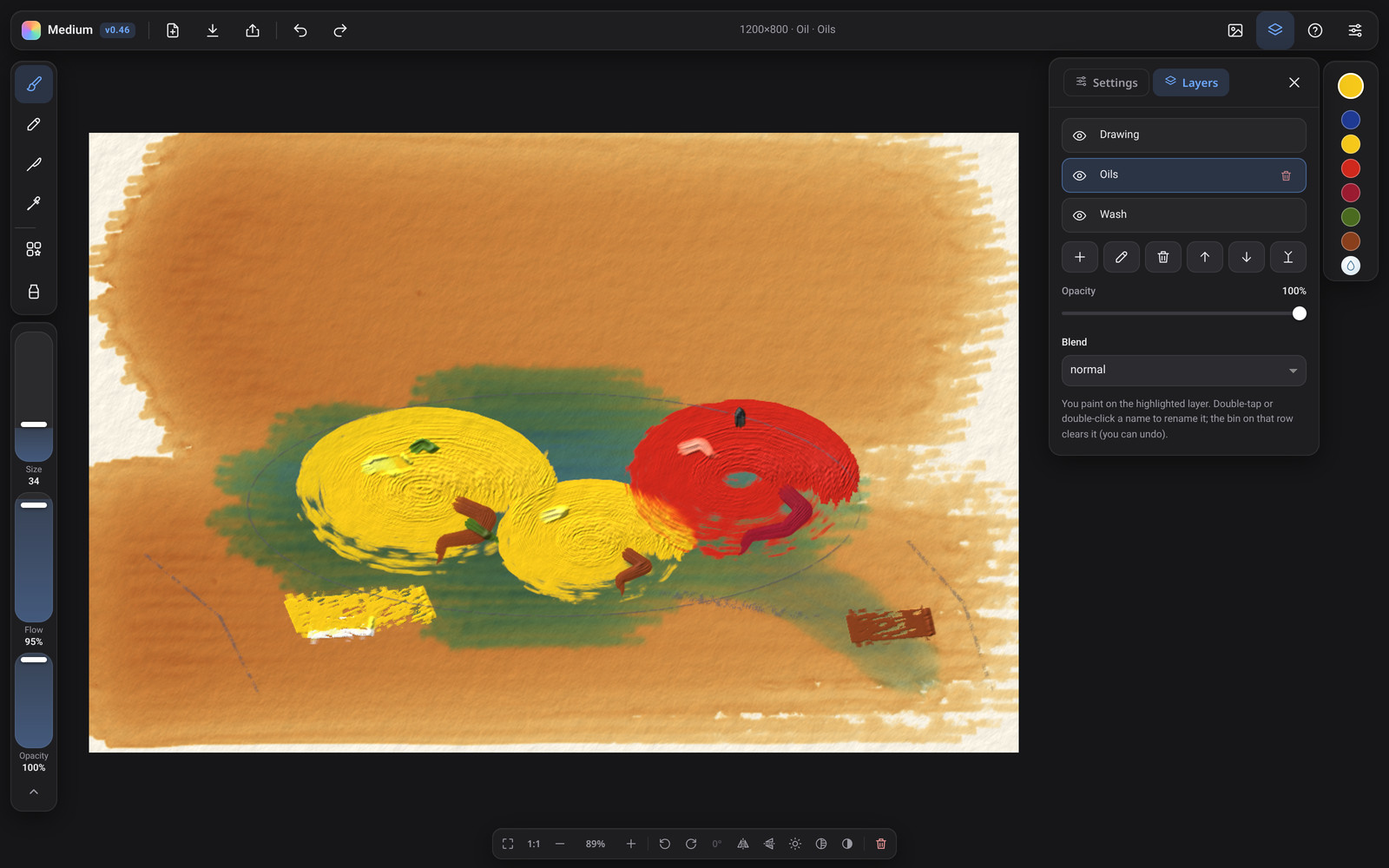
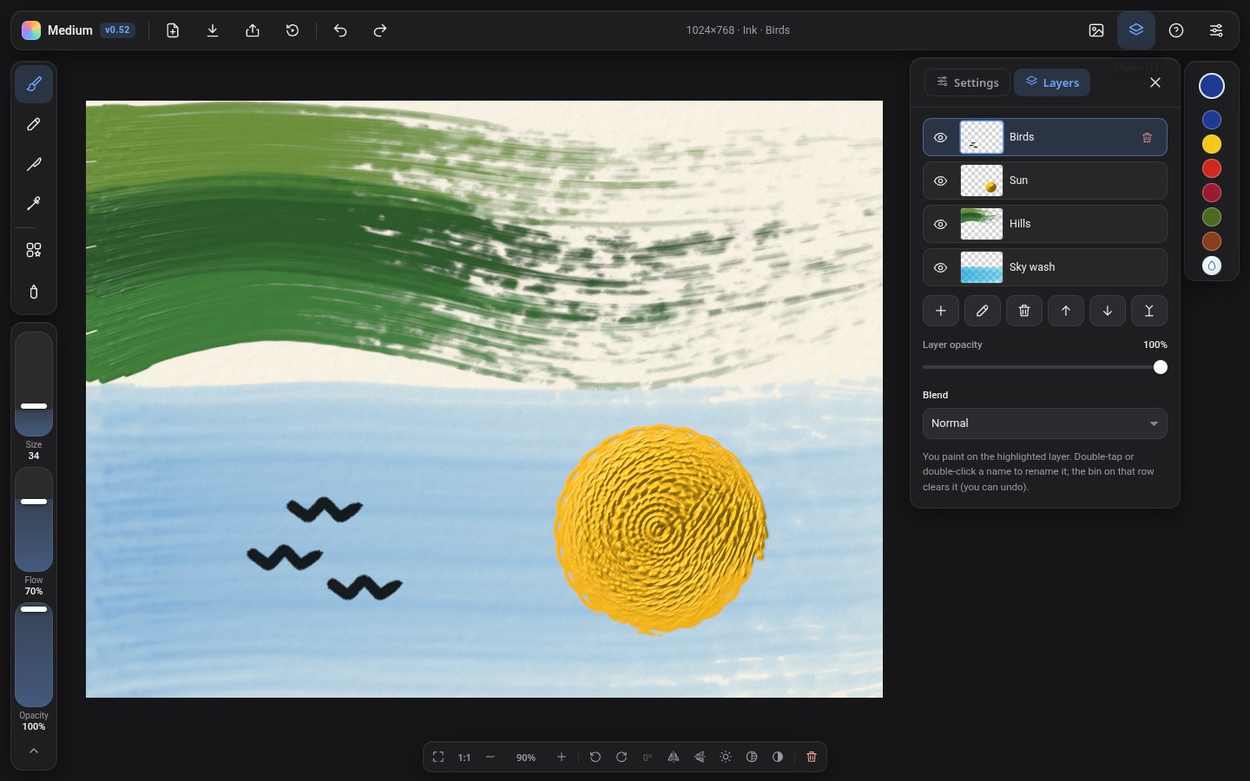
v0.52: layer thumbnail previews in Layers tab (live-updating, desktop + phone); test-thumbs.js

diff --git a/index.html b/index.html
@@ -1,8 +1,8 @@
 <!DOCTYPE html>
 <html lang="en"><head><meta charset="utf-8">
-<title>Medium — paint v0.51</title>
+<title>Medium — paint v0.52</title>
 <meta name="viewport" content="width=device-width,initial-scale=1,maximum-scale=1,user-scalable=no,viewport-fit=cover">
-<meta name="app-version" content="medium-v0.51">
+<meta name="app-version" content="medium-v0.52">
 <meta name="theme-color" content="#161618">
 <link rel="manifest" href="manifest.webmanifest">
 <link rel="icon" type="image/png" sizes="32x32" href="icons/favicon-32.png">
@@ -91,10 +91,10 @@ select{width:100%;min-height:36px;padding:6px 10px;border:0;border-radius:10px;b
 input[type=color]{width:34px;height:26px;border:0;border-radius:8px;background:none;padding:0;cursor:pointer}
 .pick{display:flex;align-items:center;gap:10px;margin-top:10px;color:var(--mute);font-size:12.5px}
 #layers{display:flex;flex-direction:column;gap:4px;margin-bottom:10px}
-.ly{display:flex;align-items:center;gap:8px;min-height:40px;padding:4px 10px 4px 4px;border-radius:10px;background:rgba(255,255,255,.04);box-shadow:inset 0 0 0 1px var(--line);cursor:pointer;font-size:12.5px}
+.ly{display:flex;align-items:center;gap:8px;min-height:44px;padding:4px 10px 4px 4px;border-radius:10px;background:rgba(255,255,255,.04);box-shadow:inset 0 0 0 1px var(--line);cursor:pointer;font-size:12.5px}
 .ly.on{background:var(--accS);box-shadow:inset 0 0 0 1px rgba(110,168,255,.45)}
 .ly .eye{width:32px;height:32px;display:flex;align-items:center;justify-content:center;border-radius:8px;color:var(--ink)}.ly .eye.off{color:var(--dim)}.ly .eye svg{width:17px;height:17px}
-.ly .nm{flex:1;overflow:hidden;white-space:nowrap;text-overflow:ellipsis}.ly .eye{border:0;background:none;padding:0;cursor:pointer;flex:none}.ly .eye:focus-visible,.ly:focus-visible{outline:2px solid var(--acc,#6ea8ff);outline-offset:1px}.ly:focus{outline:none}.ly .nmi{flex:1;min-width:0;height:30px;padding:0 8px;border:0;border-radius:7px;background:rgba(0,0,0,.35);color:var(--ink);font:inherit;box-shadow:inset 0 0 0 1px rgba(110,168,255,.7);outline:none}#layers{display:flex;flex-direction:column;gap:6px}.ly .bm{color:var(--mute);font-size:10.5px}
+.ly .nm{flex:1;overflow:hidden;white-space:nowrap;text-overflow:ellipsis}.ly .lthb{flex:none;width:48px;height:36px;display:flex;align-items:center;justify-content:center;border-radius:6px}.ly .lth{display:block;max-width:48px;max-height:36px;border-radius:3px;box-shadow:0 0 0 1px var(--line);background-color:#fff;background-image:linear-gradient(45deg,#d6d6d6 25%,transparent 25%,transparent 75%,#d6d6d6 75%),linear-gradient(45deg,#d6d6d6 25%,transparent 25%,transparent 75%,#d6d6d6 75%);background-size:8px 8px;background-position:0 0,4px 4px}.ly.on .lth{box-shadow:0 0 0 1.5px rgba(110,168,255,.9)}.ly.hid .lthb{opacity:.4}.ly .eye{border:0;background:none;padding:0;cursor:pointer;flex:none}.ly .eye:focus-visible,.ly:focus-visible{outline:2px solid var(--acc,#6ea8ff);outline-offset:1px}.ly:focus{outline:none}.ly .nmi{flex:1;min-width:0;height:30px;padding:0 8px;border:0;border-radius:7px;background:rgba(0,0,0,.35);color:var(--ink);font:inherit;box-shadow:inset 0 0 0 1px rgba(110,168,255,.7);outline:none}#layers{display:flex;flex-direction:column;gap:6px}.ly .bm{color:var(--mute);font-size:10.5px}
 .hint{font-size:11.5px;color:var(--mute);line-height:1.55}
 #viewc{position:fixed;left:50%;bottom:10px;transform:translateX(-50%);z-index:9;display:flex;align-items:center;gap:2px;background:var(--glass);border:1px solid var(--line);border-radius:11px;padding:3px;box-shadow:var(--sh)}
 #viewc button{background:none;border:0;color:var(--mute);border-radius:8px;height:28px;min-width:28px;padding:0 6px;display:grid;place-items:center;cursor:pointer;font:600 11px/1 system-ui;font-variant-numeric:tabular-nums}
@@ -407,7 +407,7 @@ body.rp.vexp #c{object-fit:contain}
 </div>
 <div id="viewc" role="toolbar" aria-label="Canvas view"><button id="vFit" data-ic="fit" data-tip="Fit to screen (Ctrl+0)" aria-label="Fit to screen"></button><button id="v100" data-tip="Zoom to 100% (Ctrl+1)" aria-label="Zoom to 100%">1:1</button><button id="vOut" data-ic="minus" data-tip="Zoom out (Ctrl+−)" aria-label="Zoom out"></button><button id="zoomv" data-tip="Zoom: click for 100% (Ctrl+1), again to fit (Ctrl+0)" aria-label="Zoom level">100%</button><button id="vIn" data-ic="plus" data-tip="Zoom in (Ctrl++)" aria-label="Zoom in"></button><span class="vsep"></span><button id="vRL" data-ic="rotl" data-tip="Rotate view left 15° (Shift+R)" aria-label="Rotate view left"></button><button id="vRR" data-ic="rotr" data-tip="Rotate view right 15° (R)" aria-label="Rotate view right"></button><button id="rotv" disabled data-tip="Straighten the view (shows current angle)" aria-label="Reset rotation">0°</button><button id="vFH" data-ic="fliph" data-tip="Mirror view left–right (H)" aria-label="Flip view horizontally" aria-pressed="false"></button><button id="vFV" data-ic="flipv" data-tip="Mirror view upside down (Shift+H)" aria-label="Flip view vertically" aria-pressed="false"></button><button id="vSun" data-ic="sun" data-tip="Light &amp; relief (Shift+L)" aria-label="Light and relief" aria-haspopup="dialog" aria-expanded="false" aria-controls="lp"></button><button id="vGrey" data-ic="grey" data-tip="Value check: greyscale view (Shift+V)" aria-label="Greyscale value check" aria-pressed="false"></button><button id="vFlat" data-ic="flat" data-tip="Flat view: hide lighting to judge colour (Shift+F)" aria-label="Flat view" aria-pressed="false"></button><span class="vsep"></span><button id="vClr" data-ic="trash" data-tip="Clear layer… (Shift+Delete)" aria-label="Clear layer" aria-haspopup="dialog"></button></div>
 <!-- top-left: brand + document actions -->
-<div id="barL" class="fl"><div class="brand"><span class="logo"></span>Medium<span class="ver" id="ver">v0.51</span><span id="recDot" class="recDot" role="img" aria-label="Recording strokes for replay" title="Recording strokes for replay (Settings › Replay &amp; recording)" hidden></span></div>
+<div id="barL" class="fl"><div class="brand"><span class="logo"></span>Medium<span class="ver" id="ver">v0.52</span><span id="recDot" class="recDot" role="img" aria-label="Recording strokes for replay" title="Recording strokes for replay (Settings › Replay &amp; recording)" hidden></span></div>
  <span class="sep dk"></span><button class="ib dk" id="tNew" data-tip="New canvas" aria-label="New canvas" data-ic="file"></button><button class="ib dk" id="tExp" data-tip="Export… (Ctrl+Shift+E)" aria-label="Export image" aria-haspopup="dialog" data-ic="download"></button><button class="ib dk" id="tShare" data-tip="Share… (Ctrl+Shift+S)" aria-label="Share painting" aria-haspopup="dialog" data-ic="share"></button><button class="ib dk" id="tRep" data-tip="Replay &amp; time-lapse video (Y)" aria-label="Replay painting" aria-haspopup="dialog" aria-expanded="false" data-ic="replay"></button><span class="sep dk"></span><button class="ib dk" id="bUndo" data-tip="Undo (Ctrl+Z)" aria-label="Undo" data-ic="undo"></button><button class="ib dk" id="bRedo" data-tip="Redo (Ctrl+Shift+Z)" aria-label="Redo" data-ic="redo"></button><span class="sp dk"></span><span id="docT" class="dk"></span><span class="sp dk"></span><button class="ib dk" id="tRef" data-tip="Reference image" aria-label="Reference image" data-ic="image"></button><button class="ib dk" id="tLay" data-tip="Layers (L)" aria-label="Layers" aria-expanded="false" aria-controls="panel" data-ic="layers"></button><button class="ib dk" id="tHelp" data-tip="Help &amp; shortcuts (?)" aria-label="Help and keyboard shortcuts" aria-haspopup="dialog" data-ic="help"></button><button class="ib dk" id="dSet" data-tip="Settings" aria-label="Settings" data-ic="sliders"></button></div>
 <!-- top-right: tools -->
 <div id="barR" class="fl"><button class="ib" id="dBrush" data-tip="Brush (B)" aria-label="Brush" data-ic="brush"></button><button class="ib" id="dPencil" data-tip="Pencil (G)" aria-label="Pencil" data-ic="pencil"></button><button class="ib" id="dKnife" data-tip="Palette knife (K)" aria-label="Palette knife" data-ic="knife"></button><button class="ib" id="dPick" data-tip="Eyedropper (I or Alt+click)" aria-label="Eyedropper" data-ic="pipette"></button>
@@ -603,6 +603,7 @@ body.rp.vexp #c{object-fit:contain}
  <section class="hSec" id="hsLayers"><h3><span data-ic="layers"></span>Layers</h3><ul>
   <li>Open the <b>Layers</b> tab with the layers button (stacked squares) at the top, or press <kbd>L</kbd>. It sits beside Settings in the same panel, so you can switch between the two tabs. You paint on the highlighted layer.</li>
   <li><b>+</b> adds a layer; the eye hides or shows one.</li>
+  <li><b>Thumbnails:</b> each layer shows a small preview of just that layer, on a checkerboard where it is see-through. It updates after each stroke, undo, clear or reorder, and while wet paint dries (only while the Layers tab is open). Tap a thumbnail or name to paint on that layer.</li>
   <li><b>Rename:</b> the pencil button, a double-click or double-tap on the name<span class="dk">, or F2</span>.</li>
   <li>The arrows move a layer up or down; <b>Merge down</b> joins it with the layer below.</li>
   <li><b>Layer opacity</b> and <b>Blend</b> in the Layers tab apply to the whole current layer. 18 blend modes, grouped like Photoshop: Normal · Darken, Multiply, Colour burn, Linear burn · Lighten, Screen, Colour dodge, Linear dodge (add) · Overlay, Soft light, Hard light · Difference, Exclusion · Hue, Saturation, Colour, Luminosity. New paintings blend like Photoshop (on display colours); paintings saved before v0.51 keep their old look for normal, multiply, screen and overlay. Blend only changes colour: the paint's relief and gloss stay as they are.</li>
@@ -1102,6 +1103,11 @@ const vs=sh(gl.VERTEX_SHADER,VS);
 function prog(src){const p=gl.createProgram();gl.attachShader(p,vs);{let fs=HEAD+src;if(NOLIN)fs=fs.replace('\n','\n#define NOLIN 1\n');if(MEDIUMP)fs=fs.replace('precision highp float;','precision mediump float;');gl.attachShader(p,sh(gl.FRAGMENT_SHADER,fs));}gl.bindAttribLocation(p,0,'p');gl.linkProgram(p);
  if(!gl.getProgramParameter(p,gl.LINK_STATUS))throw new Error(gl.getProgramInfoLog(p));const u={};const n=gl.getProgramParameter(p,gl.ACTIVE_UNIFORMS);
  for(let i=0;i<n;i++){const nm=gl.getActiveUniform(p,i).name.replace('[0]','');u[nm]=gl.getUniformLocation(p,nm);}return{p,u};}
+/* v0.52 layer thumbnails: box-filter a layer (premultiplied colour + height/gloss) down to thumbnail size; o1.x also gets the paper relief like hdown */
+FS.thumbDown=`uniform sampler2D uC,uA,uP;uniform float uPR,uTN;uniform vec2 uFP;layout(location=0) out vec4 o0;layout(location=1) out vec4 o1;
+void main(){int n=int(uTN+.5);vec4 C=vec4(0),A=vec4(0);float hp=0.;for(int j=0;j<12;j++){if(j>=n)break;for(int i=0;i<12;i++){if(i>=n)break;
+ vec2 u=vUv+uFP*((vec2(float(i),float(j))+.5)/float(n)-.5);C+=texture(uC,u);A+=texture(uA,u);hp+=texture(uP,u).r;}}
+ float k=float(n*n);o0=C/k;A/=k;o1=vec4(A.x+hp/k*uPR,A.yzw);}`;
 const P={};for(const k in FS)P[k]=prog(FS[k]);
 const vb=gl.createBuffer();gl.bindBuffer(gl.ARRAY_BUFFER,vb);gl.bufferData(gl.ARRAY_BUFFER,new Float32Array([-1,-1,3,-1,-1,3]),gl.STATIC_DRAW);gl.enableVertexAttribArray(0);gl.vertexAttribPointer(0,2,gl.FLOAT,false,0,0);
 const TEXB=new Map();let gpuBytes=0,gpuPeak=0;
@@ -1975,7 +1981,46 @@ const ic=n=>'<svg class="i" viewBox="0 0 24 24" aria-hidden="true">'+ICONS[n]+'<
 function paintIcons(root){root.querySelectorAll('[data-ic]').forEach(el=>{el.innerHTML=ic(el.dataset.ic);});}
 paintIcons(document);
 // eye icons in the layer list (uiLayers renders an emoji; swap it for an SVG after each render)
-const _uiL=uiLayers;uiLayers=function(){_uiL();$('layers').querySelectorAll('.eye').forEach(e=>{e.innerHTML=ic(e.classList.contains('off')?'eyeoff':'eye');});};uiLayers();
+const _uiL=uiLayers;uiLayers=function(){_uiL();$('layers').querySelectorAll('.eye').forEach(e=>{e.innerHTML=ic(e.classList.contains('off')?'eyeoff':'eye');});};
+/* v0.52 layer thumbnails: each Layers-tab row shows a small live preview of that layer alone, lit like the canvas (flat when the view is flat),
+   on a checkerboard for transparency, in the canvas aspect ratio. GPU only: thumbDown box filter -> the screen lighting pass (P.final) at 96x72 max
+   -> one small RGBA8 atlas -> async readPixels into a PBO + fence (no GPU stall). Batches are >= 250 ms apart, never during a stroke, and only while
+   the Layers tab is open; wet paint refreshes about once a second while it dries. Display only: nothing goes into files or recordings. */
+const LTH={cv:new Map(),dirty:new Set(),all:true,last:0,pend:null,mid:null,sm:null,one:null,atl:null,pbo:null,pboN:0,wetT:0,wasOpen:false,wasWet:false,tw:0,th:0,stats:{batches:0,thumbs:0,ms:0,maxMs:0,minGap:1e9,lastT:0}};
+function lthSize(){const bw=96,bh=72;if(W/H>bw/bh)return[bw,Math.max(4,Math.round(bw*H/W))];return[Math.max(4,Math.round(bh*W/H)),bh];}
+function lthOpen(){return !SANDBOX&&!document.hidden&&$('panel').classList.contains('open')&&pTab==='lay';}
+function lthMark(id){if(id==null)LTH.all=true;else LTH.dirty.add(id);}
+function lthCanvas(l){let c=LTH.cv.get(l.id);if(!c){c=document.createElement('canvas');c.className='lth';c.setAttribute('aria-hidden','true');c.width=LTH.tw||4;c.height=LTH.th||4;c.getContext('2d',{willReadFrequently:true});LTH.cv.set(l.id,c);LTH.dirty.add(l.id);}return c;}
+function lthRows(){const el=$('layers');if(!el)return;const ids=new Set(layers.map(l=>l.id));for(const id of [...LTH.cv.keys()])if(!ids.has(id))LTH.cv.delete(id);
+ el.querySelectorAll('.ly[data-i]').forEach(d=>{const l=layers[+d.dataset.i];if(!l)return;d.classList.toggle('hid',!l.vis);const b=document.createElement('span');b.className='lthb';b.appendChild(lthCanvas(l));const e=d.querySelector('.eye');if(e)e.after(b);else d.prepend(b);});}
+function lthTarget(k,w,h,n,f,t){const o=LTH[k];if(o&&o.w===w&&o.h===h)return o;if(o)delTarget(o);return LTH[k]=target(n,w,h,f,t);}
+function lthRun(){const t0=performance.now();const[tw,th]=lthSize();if(tw!==LTH.tw||th!==LTH.th){LTH.tw=tw;LTH.th=th;LTH.all=true;for(const c of LTH.cv.values()){c.width=tw;c.height=th;}}
+ const ids=LTH.all?layers.map(l=>l.id):[...LTH.dirty];LTH.all=false;LTH.dirty.clear();const jobs=[];
+ for(const id of ids){const i=layers.findIndex(l=>l.id===id);if(i<0)continue;const l=layers[i],c=LTH.cv.get(id);if(!c)continue;
+  if(i!==ai&&!l.tex){c.getContext('2d').clearRect(0,0,c.width,c.height);continue;}jobs.push({id,i});}
+ if(!jobs.length)return;
+ const H16=gl.RGBA16F,HF=gl.HALF_FLOAT,sm=lthTarget('sm',tw,th,2,H16,HF),one=lthTarget('one',tw,th,1,gl.RGBA8,gl.UNSIGNED_BYTE),atl=lthTarget('atl',tw,th*jobs.length,1,gl.RGBA8,gl.UNSIGNED_BYTE);
+ const L=litU(),hk=Math.max(2,W/tw),rb=Math.pow(Math.min(hk,8),.3);
+ jobs.forEach((j,k)=>{let src,fp;if(j.i===ai){src=lthTarget('mid',tw*4,th*4,2,H16,HF);liveLayer(src);fp=4;}else{src=layers[j.i].tex;fp=W/tw;}
+  run(P.thumbDown,sm,{uC:src.t[0],uA:src.t[1],uP:PAPER.t[0]},{uFP:[1/tw,1/th],uTN:Math.max(2,Math.min(12,Math.ceil(fp/2))),uPR:L.uPR/rb});
+  run(P.final,one,{uAC:sm.t[0],uAA:sm.t[1],uP:PAPER.t[0],uHM:sm.t[1]},Object.assign({},L,{uHK:hk,uRB:rb,uFast:1,uScreen:0,uMode:LT.flat?1:0,uView:[0,0,1,0],uBg:[0,0,0]}));
+  blitT(one,0,0,atl,0,k*th,tw,th,1);});
+ const bytes=tw*th*jobs.length*4;if(!LTH.pbo)LTH.pbo=gl.createBuffer();gl.bindBuffer(gl.PIXEL_PACK_BUFFER,LTH.pbo);if(LTH.pboN<bytes){gl.bufferData(gl.PIXEL_PACK_BUFFER,bytes,gl.STREAM_READ);LTH.pboN=bytes;}
+ gl.bindFramebuffer(gl.FRAMEBUFFER,atl.fb);gl.readBuffer(gl.COLOR_ATTACHMENT0);gl.readPixels(0,0,tw,th*jobs.length,gl.RGBA,gl.UNSIGNED_BYTE,0);gl.bindBuffer(gl.PIXEL_PACK_BUFFER,null);
+ const sync=gl.fenceSync(gl.SYNC_GPU_COMMANDS_COMPLETE,0);gl.flush();LTH.pend={sync,jobs,tw,th,bytes,frames:0};
+ const ms=performance.now()-t0;if(LTH.stats.lastT)LTH.stats.minGap=Math.min(LTH.stats.minGap,t0-LTH.stats.lastT);LTH.stats.lastT=t0;LTH.stats.batches++;LTH.stats.thumbs+=jobs.length;LTH.stats.ms+=ms;LTH.stats.maxMs=Math.max(LTH.stats.maxMs,ms);}
+function lthPoll(force){const p=LTH.pend;if(!p)return;p.frames++;const s=gl.getSyncParameter(p.sync,gl.SYNC_STATUS);if(s!==gl.SIGNALED&&!force&&p.frames<8)return;
+ LTH.pend=null;gl.deleteSync(p.sync);const px=new Uint8Array(p.bytes);gl.bindBuffer(gl.PIXEL_PACK_BUFFER,LTH.pbo);gl.getBufferSubData(gl.PIXEL_PACK_BUFFER,0,px,0,p.bytes);gl.bindBuffer(gl.PIXEL_PACK_BUFFER,null);
+ if(p.tw!==LTH.tw||p.th!==LTH.th){LTH.all=true;return;}const rowB=p.tw*4;
+ p.jobs.forEach((j,k)=>{const c=LTH.cv.get(j.id);if(!c)return;const im=new ImageData(p.tw,p.th);for(let y=0;y<p.th;y++){const sy=k*p.th+(p.th-1-y);im.data.set(px.subarray(sy*rowB,(sy+1)*rowB),y*rowB);}c.getContext('2d').putImageData(im,0,0);c.dataset.v=(+(c.dataset.v||0)+1)+'';});}
+function lthTick(){if(LTH.pend)lthPoll(false);const open=lthOpen();if(open&&!LTH.wasOpen)LTH.all=true;LTH.wasOpen=open;if(!open)return;const now=performance.now();
+ const wet=awake.size>0;if(drawing==null&&wet&&now-LTH.wetT>1000){LTH.wetT=now;lthMark(layers[ai]&&layers[ai].id);}if(LTH.wasWet&&!wet)lthMark(layers[ai]&&layers[ai].id);LTH.wasWet=wet;
+ if((LTH.all||LTH.dirty.size)&&!LTH.pend&&drawing==null&&now-LTH.last>=250){LTH.last=now;try{lthRun();}catch(e){console.warn('layer thumbnails',e);}}}
+{const _u=uiLayers;uiLayers=function(){_u();lthRows();lthMark();};}
+{const _e=endStroke;endStroke=function(){const r=_e.apply(this,arguments);if(layers[ai])lthMark(layers[ai].id);return r;};}
+{const _c=clearLayer;clearLayer=function(){const r=_c.apply(this,arguments);lthMark();return r;};}
+if(!SANDBOX)requestAnimationFrame(function lthLoop(){requestAnimationFrame(lthLoop);lthTick();});
+uiLayers();
 // settings panel: open by default on wide desktop
 const panel=$('panel');
 // v0.45: one side panel / phone drawer with two tabs, Settings and Layers (Layers no longer sits inside Settings)
@@ -2239,7 +2284,7 @@ function ringCur(){const c=$('ring').querySelector('.rc');if(c)c.style.backgroun
 function closeRing(){$('ring').hidden=true;}
 addEventListener('pointerdown',e=>{if(!$('ring').hidden&&!$('ring').contains(e.target))closeRing();},true);
 addEventListener('keydown',e=>{if(e.key==='Escape'&&!$('ring').hidden)closeRing();});
-window.paintAPI={flip:()=>Object.assign({},FLIP),setFlip,sheetRect:()=>{const d=cv.width/Math.max(1,cv.getBoundingClientRect().width),P=[[0,0],[W,0],[0,H],[W,H]].map(q=>v2s(q[0],q[1])).map(q=>[FLIP.h?cv.width-q[0]:q[0],FLIP.v?cv.height-q[1]:q[1]]);const xs=P.map(q=>q[0]/d),ys=P.map(q=>(cv.height-q[1])/d);return{left:Math.min(...xs),right:Math.max(...xs),top:Math.min(...ys),bottom:Math.max(...ys)};},resetPeak:()=>{gpuPeak=gpuBytes;},pause:v=>paused=v,setMedium,setMed,medium:()=>st.med,setSize,selectPig,setHex:h=>{st.ks=hexKS(h);},clear:()=>{recEv('C','raw');clearAll();},undo:(...a)=>undo(...a),redo:()=>redo(),setLight,setRelief,lightState:()=>({az:st.light,relief:st.relief,el:LT.el,str:LT.str,gloss:LT.gloss,paper:LT.paper,wet:LT.wet,flat:LT.flat,hk:hmFor()}),setLT:o=>setLT(o),
+window.paintAPI={lthInfo:()=>({tw:LTH.tw,th:LTH.th,pending:!!LTH.pend,dirty:LTH.all||LTH.dirty.size>0,stats:Object.assign({},LTH.stats),open:lthOpen()}),lthPixels(i){const l=layers[i];const c=l&&LTH.cv.get(l.id);if(!c)return null;return{w:c.width,h:c.height,v:+(c.dataset.v||0),d:Array.from(c.getContext('2d').getImageData(0,0,c.width,c.height).data)};},lthFlush(){lthPoll(true);LTH.last=0;lthTick();lthPoll(true);LTH.stats.minGap=1e9;LTH.stats.lastT=0;return LTH.stats.batches;}/* tests only: forced batch, not counted in minGap */,flip:()=>Object.assign({},FLIP),setFlip,sheetRect:()=>{const d=cv.width/Math.max(1,cv.getBoundingClientRect().width),P=[[0,0],[W,0],[0,H],[W,H]].map(q=>v2s(q[0],q[1])).map(q=>[FLIP.h?cv.width-q[0]:q[0],FLIP.v?cv.height-q[1]:q[1]]);const xs=P.map(q=>q[0]/d),ys=P.map(q=>(cv.height-q[1])/d);return{left:Math.min(...xs),right:Math.max(...xs),top:Math.min(...ys),bottom:Math.max(...ys)};},resetPeak:()=>{gpuPeak=gpuBytes;},pause:v=>paused=v,setMedium,setMed,medium:()=>st.med,setSize,selectPig,setHex:h=>{st.ks=hexKS(h);},clear:()=>{recEv('C','raw');clearAll();},undo:(...a)=>undo(...a),redo:()=>redo(),setLight,setRelief,lightState:()=>({az:st.light,relief:st.relief,el:LT.el,str:LT.str,gloss:LT.gloss,paper:LT.paper,wet:LT.wet,flat:LT.flat,hk:hmFor()}),setLT:o=>setLT(o),
  step:n=>{for(let i=0;i<n;i++)step();render();},dryAll:()=>{recEv('D',0);st.dryAll=1;step();render();},
  blendModes:()=>Object.keys(MODES),blendSpace:()=>BSP,setBlendSpace:v=>{BSP=v?1:0;belowDirty=true;compFull=true;needRender=true;},/* tests only */editCommit:(op,args)=>editCommit(op,args),
  readLayerPixel(i,x,y){const l=layers[i];if(!l||!l.tex)return null;const o=[];for(const k of [0,1]){const b=new Float32Array(4);gl.bindFramebuffer(gl.FRAMEBUFFER,l.tex.fb);gl.readBuffer(gl.COLOR_ATTACHMENT0+k);gl.readPixels(x,y,1,1,gl.RGBA,gl.FLOAT,b);o.push([...b]);}gl.readBuffer(gl.COLOR_ATTACHMENT0);return o;},

diff --git a/test-thumbs.js b/test-thumbs.js
@@ -1,0 +1,81 @@
+// v0.52 layer thumbnails: one live thumbnail per Layers-tab row (checkerboard, canvas aspect), matches the downscaled layer,
+// updates after stroke / undo / redo / clear / reorder / drying, throttled (no update storm), phone rows >= 44 px, tap thumbnail selects.
+// Exit 0 = pass.
+const {chromium}=require('playwright');const path=require('path');
+const URL=process.argv[2]||('file://'+path.resolve(__dirname,'index.html'));
+const MOB={deviceScaleFactor:2,hasTouch:true,isMobile:true,userAgent:'Mozilla/5.0 (Linux; Android 14; SM-N986B) AppleWebKit/537.36 (KHTML, like Gecko) Chrome/126.0 Mobile Safari/537.36'};
+const VPS=[{name:'desktop',ctx:{viewport:{width:1440,height:900}}},{name:'phone',ctx:Object.assign({viewport:{width:390,height:844}},MOB)}];
+let fails=0;const check=(c,m,x)=>{console.log((c?'PASS ':'FAIL ')+m+(x===undefined?'':' '+JSON.stringify(x)));if(!c)fails++;};
+(async()=>{const b=await chromium.launch({args:['--use-gl=angle','--use-angle=swiftshader','--enable-unsafe-swiftshader','--ignore-gpu-blocklist']});
+for(const vp of VPS){console.log('== '+vp.name);const ctx=await b.newContext(vp.ctx);const p=await ctx.newPage();const errs=[];
+ p.on('pageerror',e=>errs.push(''+e));p.on('console',m=>{if(m.type()==='error'&&!/ReadPixels/.test(m.text()))errs.push(m.text());});
+ await p.goto(URL+(URL.includes('?')?'&':'?')+'welcome=0');await p.waitForFunction(()=>window.paintAPI,null,{timeout:60000});await p.waitForTimeout(800);
+ await p.evaluate(()=>{const w=document.getElementById('wc');if(w&&!w.hidden){const x=w.querySelector('button');x&&x.click();}});
+ const mob=vp.name==='phone';
+ await p.evaluate(()=>{const A=paintAPI;A.newCanvas(512,384);});await p.waitForTimeout(300);
+ if(mob)await p.tap('#tLayM').catch(async()=>{await p.tap('#tLay');});else await p.click('#tLay');await p.waitForTimeout(400);
+ check(await p.evaluate(()=>paintAPI.lthInfo().open),'Layers tab open');
+ const flush=()=>p.evaluate(()=>{paintAPI.lthFlush();paintAPI.lthFlush();return paintAPI.lthInfo();});
+ // paint: layer 1 red oil stroke (left), layer 2 blue oil stroke (right), layer 3 empty
+ await p.evaluate(()=>{const A=paintAPI;A.pause(true);A.setMedium(1,'oil');A.setHex('#c0262b');A.stroke([[.1,.3],[.4,.3],[.4,.7]],.8);A.step(30);
+  A.L.add();A.setHex('#2848c8');A.stroke([[.6,.2],[.9,.8]],.8);A.step(30);A.L.add();A.render();});
+ let info=await flush();
+ const rows=await p.evaluate(()=>[...document.querySelectorAll('#layers .ly')].map(r=>{const c=r.querySelector('canvas.lth'),rr=r.getBoundingClientRect(),cr=c&&c.getBoundingClientRect();
+  return{i:+r.dataset.i,has:!!c,w:c&&c.width,h:c&&c.height,cw:cr&&cr.width,ch:cr&&cr.height,rowH:rr.height,bg:c&&getComputedStyle(c).backgroundImage.includes('gradient')};}));
+ check(rows.length===3&&rows.every(r=>r.has),'one thumbnail per layer row',rows);
+ check(rows.every(r=>Math.abs(r.w/r.h-512/384)<.05&&Math.abs(r.cw/r.ch-512/384)<.08),'thumbnail matches canvas aspect ratio',rows.map(r=>[r.w,r.h,r.cw,r.ch]));
+ check(rows.every(r=>r.bg),'thumbnail sits on a checkerboard');
+ check(rows.every(r=>r.rowH>=44),'rows at least 44 px tall',rows.map(r=>r.rowH));
+ // compare each thumbnail with the downscaled flat layer export
+ const cmp=await p.evaluate(()=>{const A=paintAPI,ex=A.exportData('layers',false);const out=[];
+  ex.forEach((e,i)=>{const t=A.lthPixels(i);const c=document.createElement('canvas');c.width=t.w;c.height=t.h;const g=c.getContext('2d');g.imageSmoothingEnabled=true;g.imageSmoothingQuality='high';g.drawImage(e[1],0,0,t.w,t.h);
+   const r=g.getImageData(0,0,t.w,t.h).data;let da=0,dc=0,nc=0,cov=0,covR=0,cx=0,cxR=0;for(let k=0;k<t.w*t.h;k++){const a1=t.d[4*k+3]/255,a2=r[4*k+3]/255;da+=Math.abs(a1-a2);cov+=a1;covR+=a2;cx+=a1*(k%t.w);cxR+=a2*(k%t.w);
+    if(a1>.7&&a2>.7){nc++;for(let q=0;q<3;q++)dc+=Math.abs(t.d[4*k+q]-r[4*k+q])/3;}}
+   out.push({i,da:+(da/(t.w*t.h)).toFixed(4),dc:nc?+(dc/nc).toFixed(1):0,nc,cov:+(cov/(t.w*t.h)).toFixed(4),covR:+(covR/(t.w*t.h)).toFixed(4),cx:cov?+(cx/cov/t.w).toFixed(3):-1,cxR:covR?+(cxR/covR/t.w).toFixed(3):-1});});return out;});
+ console.log(JSON.stringify(cmp));
+ check(cmp[0].cov>.02&&cmp[1].cov>.02&&cmp[2].cov<.001,'painted layers show paint, empty layer is empty',cmp.map(c=>c.cov));
+ check(cmp.every(c=>c.da<.05),'thumbnail alpha matches downscaled layer (mean |dA| < 0.05)',cmp.map(c=>c.da));
+ check(cmp.every(c=>c.nc===0||c.dc<45),'thumbnail colour matches downscaled layer within lighting tolerance (mean |dRGB| < 45/255)',cmp.map(c=>c.dc));
+ check(cmp[0].cx<.45&&cmp[1].cx>.55&&Math.abs(cmp[0].cx-cmp[0].cxR)<.03&&Math.abs(cmp[1].cx-cmp[1].cxR)<.03,'each thumbnail shows only its own layer, in the right place',cmp.map(c=>[c.cx,c.cxR]));
+ const px=i=>p.evaluate(i=>paintAPI.lthPixels(i),i);const cov=t=>{let s=0;for(let k=3;k<t.d.length;k+=4)s+=t.d[k];return s/255/(t.w*t.h);};
+ const diff=(a,b)=>{let s=0;for(let k=0;k<a.d.length;k++)s+=Math.abs(a.d[k]-b.d[k]);return s/a.d.length;};
+ // stroke on empty top layer -> its thumbnail updates
+ let t0=await px(2);await p.evaluate(()=>{const A=paintAPI;A.stroke([[.2,.85],[.8,.85]],.8);A.step(20);A.render();});await flush();let t1=await px(2);
+ check(t1.v>t0.v&&cov(t1)>cov(t0)+.01,'thumbnail updates after a stroke',{v:[t0.v,t1.v],cov:[cov(t0),cov(t1)]});
+ await p.evaluate(()=>{paintAPI.undo();paintAPI.render();});await flush();let t2=await px(2);check(cov(t2)<.001,'thumbnail updates after undo',cov(t2));
+ await p.evaluate(()=>{paintAPI.redo();paintAPI.render();});await flush();let t3=await px(2);check(diff(t3,t1)<3,'thumbnail updates after redo',diff(t3,t1));
+ await p.evaluate(()=>{paintAPI.clearLayer();paintAPI.render();});await flush();let t4=await px(2);check(cov(t4)<.001,'thumbnail updates after clear layer',cov(t4));
+ // reorder: move layer 2 (blue) to top position -> thumbnails follow their layers
+ const before1=await px(1);await p.evaluate(()=>{const A=paintAPI;A.L.select(1);A.L.up();A.render();});await flush();
+ const afterTop=await px(2),afterMid=await px(1);check(diff(afterTop,before1)<3&&cov(afterMid)<.001,'thumbnails follow layers after reorder',{top:diff(afterTop,before1),mid:cov(afterMid)});
+ const domOrder=await p.evaluate(()=>[...document.querySelectorAll('#layers .ly')].map(r=>r.dataset.i));check(domOrder.join()==='2,1,0','rows top-to-bottom',domOrder);
+ // file open (save + reopen) -> thumbnails rebuilt
+ const fo=await p.evaluate(async()=>{const A=paintAPI;const by=await A.saveProjectBytes();await A.openProjectBytes(by);A.render();A.lthFlush();A.lthFlush();return [0,1,2].map(i=>{const t=A.lthPixels(i);let s=0;for(let k=3;k<t.d.length;k+=4)s+=t.d[k];return +(s/255/(t.w*t.h)).toFixed(4);});}).catch(e=>'ERR '+e);
+ check(Array.isArray(fo)&&fo[2]>.02&&fo[0]>.02,'thumbnails after file open',fo);
+ // no update storm: 20 quick strokes in real time, panel open
+ await p.evaluate(()=>{paintAPI.pause(false);});await p.waitForTimeout(1500);
+ const st=await p.evaluate(async()=>{const A=paintAPI;A.lthInfo();const s0=A.lthInfo().stats.batches,T0=performance.now();
+  for(let k=0;k<20;k++){A.stroke([[.1+.04*k,.1],[.1+.04*k,.4]],.6);await new Promise(r=>setTimeout(r,60));}
+  await new Promise(r=>setTimeout(r,800));const T=performance.now()-T0,s=A.lthInfo().stats;return{batches:s.batches-s0,T,ms:s.ms/s.batches,maxMs:s.maxMs,minGap:s.minGap};});
+ check(st.batches>=1&&st.batches<=Math.ceil(st.T/250)+1&&st.minGap>=240,'no update storm: batches <= 4/s while painting fast',st);
+ const awake=await p.evaluate(async()=>{const A=paintAPI;A.dryAll();for(let k=0;k<40&&A.info().awake;k++)await new Promise(r=>setTimeout(r,250));return A.info().awake;});
+ await p.waitForTimeout(800);const idle0=await p.evaluate(()=>paintAPI.lthInfo().stats.batches);await p.waitForTimeout(2500);const idle1=await p.evaluate(()=>paintAPI.lthInfo().stats.batches);
+ check(awake===0&&idle1-idle0===0,'idle (dry, sim asleep): no periodic thumbnail work',{d:idle1-idle0,awake});
+ // wet watercolour drying refreshes while the tab is open
+ const wv=await p.evaluate(async()=>{const A=paintAPI;A.setMedium(0,'water');A.stroke([[.3,.5],[.7,.5]],.9);await new Promise(r=>setTimeout(r,300));const v0=A.lthPixels(A.layers().findIndex(l=>l.active)).v;
+  await new Promise(r=>setTimeout(r,3500));return{v0,v1:A.lthPixels(A.layers().findIndex(l=>l.active)).v};});
+ check(wv.v1-wv.v0>=2&&wv.v1-wv.v0<=5,'wet paint: thumbnail refreshes while drying (about 1/s)',wv);
+ // panel closed: no thumbnail work while painting
+ await p.evaluate(()=>{document.getElementById('dClose').click();});await p.waitForTimeout(300);const c0=await p.evaluate(()=>paintAPI.lthInfo().stats.batches);
+ await p.evaluate(async()=>{const A=paintAPI;A.setMedium(1,'oil');for(let k=0;k<5;k++){A.stroke([[.2,.2+.1*k],[.8,.2+.1*k]],.6);await new Promise(r=>setTimeout(r,100));}});await p.waitForTimeout(1200);
+ const c1=await p.evaluate(()=>paintAPI.lthInfo().stats.batches);check(c1===c0,'Layers tab closed: no thumbnail rendering',{c0,c1});
+ if(mob)await p.tap('#tLayM').catch(async()=>{await p.tap('#tLay');});else await p.click('#tLay');await p.waitForTimeout(700);
+ const c2=await p.evaluate(()=>paintAPI.lthInfo().stats.batches);check(c2>c1,'reopening the tab refreshes thumbnails',{c1,c2});
+ // tap a thumbnail selects that layer
+ const sel=await p.evaluate(()=>{const r=document.querySelector('#layers .ly[data-i="0"] canvas.lth').getBoundingClientRect();return[r.left+r.width/2,r.top+r.height/2];});
+ if(mob)await p.touchscreen.tap(sel[0],sel[1]);else await p.mouse.click(sel[0],sel[1]);await p.waitForTimeout(400);
+ check(await p.evaluate(()=>paintAPI.layers()[0].active),'tapping a thumbnail selects its layer');
+ await p.evaluate(()=>{paintAPI.L.add();});await p.waitForTimeout(500);
+ await p.screenshot({path:'_wip/v052/thumbs-'+vp.name+'.png'});
+ check(!errs.length,'no console errors',errs);await ctx.close();}
+await b.close();console.log(fails?fails+' FAIL':'ALL PASS');process.exit(fails?1:0);})();

diff --git a/sw.js b/sw.js
@@ -1,7 +1,7 @@
 // Medium paint: offline support. The app is one HTML file plus icons.
 // Pages: network first (so a new version shows up as soon as you're online), cached copy when offline.
 // Icons/manifest: cache first. Bump VERSION with each release so old caches are cleared.
-const VERSION='medium-v0.51';
+const VERSION='medium-v0.52';
 const CORE=['./','./index.html','./manifest.webmanifest','./icons/icon-192.png','./icons/icon-512.png','./icons/icon-maskable-192.png','./icons/icon-maskable-512.png','./icons/apple-touch-icon.png','./icons/favicon-32.png'];
 self.addEventListener('install',e=>{e.waitUntil(caches.open(VERSION).then(c=>c.addAll(CORE.map(u=>new Request(u,{cache:'reload'})))).then(()=>self.skipWaiting()));});
 self.addEventListener('activate',e=>{e.waitUntil(caches.keys().then(ks=>Promise.all(ks.filter(k=>k.startsWith('medium-')&&k!==VERSION).map(k=>caches.delete(k)))).then(()=>self.clients.claim()));});

diff --git a/README.md b/README.md
@@ -17,7 +17,7 @@ Paint in the browser with watercolour, gouache, acrylic, oil, ink and pencil. Br
 - **Clear water / clear medium** (the water-drop, or W): re-wet and lift dried watercolour or ink; thin and blend wet oil or acrylic, with no colour added
 - **Brush opacity:** the Opacity slider sets how see-through each stroke is, like letting the paint down with medium or water. 100% paints as normal; lower values lay a thinner glaze of colour so the paper or dried paint underneath shows through, in every medium and the pencil. Size, wetness and texture stay the same, a single stroke never builds up past its opacity, and a glaze still looks like a glaze once it dries. It doesn't apply to the palette knife or clear water
 - **Pen pressure and tilt**, including the Samsung S Pen — press harder, tilt to shade
-- **Layers** in their own tab, with layer opacity, rename, merge and a clear-layer button, and **18 blend modes** grouped like Photoshop: Normal; Darken, Multiply, Colour burn, Linear burn; Lighten, Screen, Colour dodge, Linear dodge (add); Overlay, Soft light, Hard light; Difference, Exclusion; Hue, Saturation, Colour, Luminosity. New paintings blend on display colours like Photoshop; paintings saved before v0.51 keep their old look. Blend modes change colour only — the paint's relief and gloss stay as they are
+- **Layers** in their own tab, each with a small live **thumbnail** of just that layer (lit like the canvas, on a checkerboard where it is see-through), with layer opacity, rename, merge and a clear-layer button, and **18 blend modes** grouped like Photoshop: Normal; Darken, Multiply, Colour burn, Linear burn; Lighten, Screen, Colour dodge, Linear dodge (add); Overlay, Soft light, Hard light; Difference, Exclusion; Hue, Saturation, Colour, Luminosity. New paintings blend on display colours like Photoshop; paintings saved before v0.51 keep their old look. Blend modes change colour only — the paint's relief and gloss stay as they are
 - **Canvas surfaces:** cold-press, hot-press and rough paper, linen or cotton canvas, and a smooth panel
 - **Lighting and relief**, so thick oil catches the light; plus a greyscale value check and a flat view that hides lighting
 - **Colour tools:** pigments, a wheel or square picker, HSB/RGB numbers, warmer/cooler/lighter/darker (mixed as paint), pins, recent colours, and an eyedropper
@@ -36,7 +36,7 @@ Paint in the browser with watercolour, gouache, acrylic, oil, ink and pencil. Br
 
 <img src="docs/screenshots/blend-modes.jpg" alt="The same painted base with a top layer of grey, white, magenta, cyan and black strokes in each of the 18 blend modes">
 
-<img src="docs/screenshots/layers.jpg" alt="The Layers tab, separate from Settings, on the desktop">
+<img src="docs/screenshots/layers.jpg" alt="The Layers tab with a live thumbnail for each layer, on the desktop">
 
 <img src="docs/screenshots/replay.jpg" alt="Replay: the painting is painted again stroke by stroke, with play, scrub, speed and Video controls">
 
